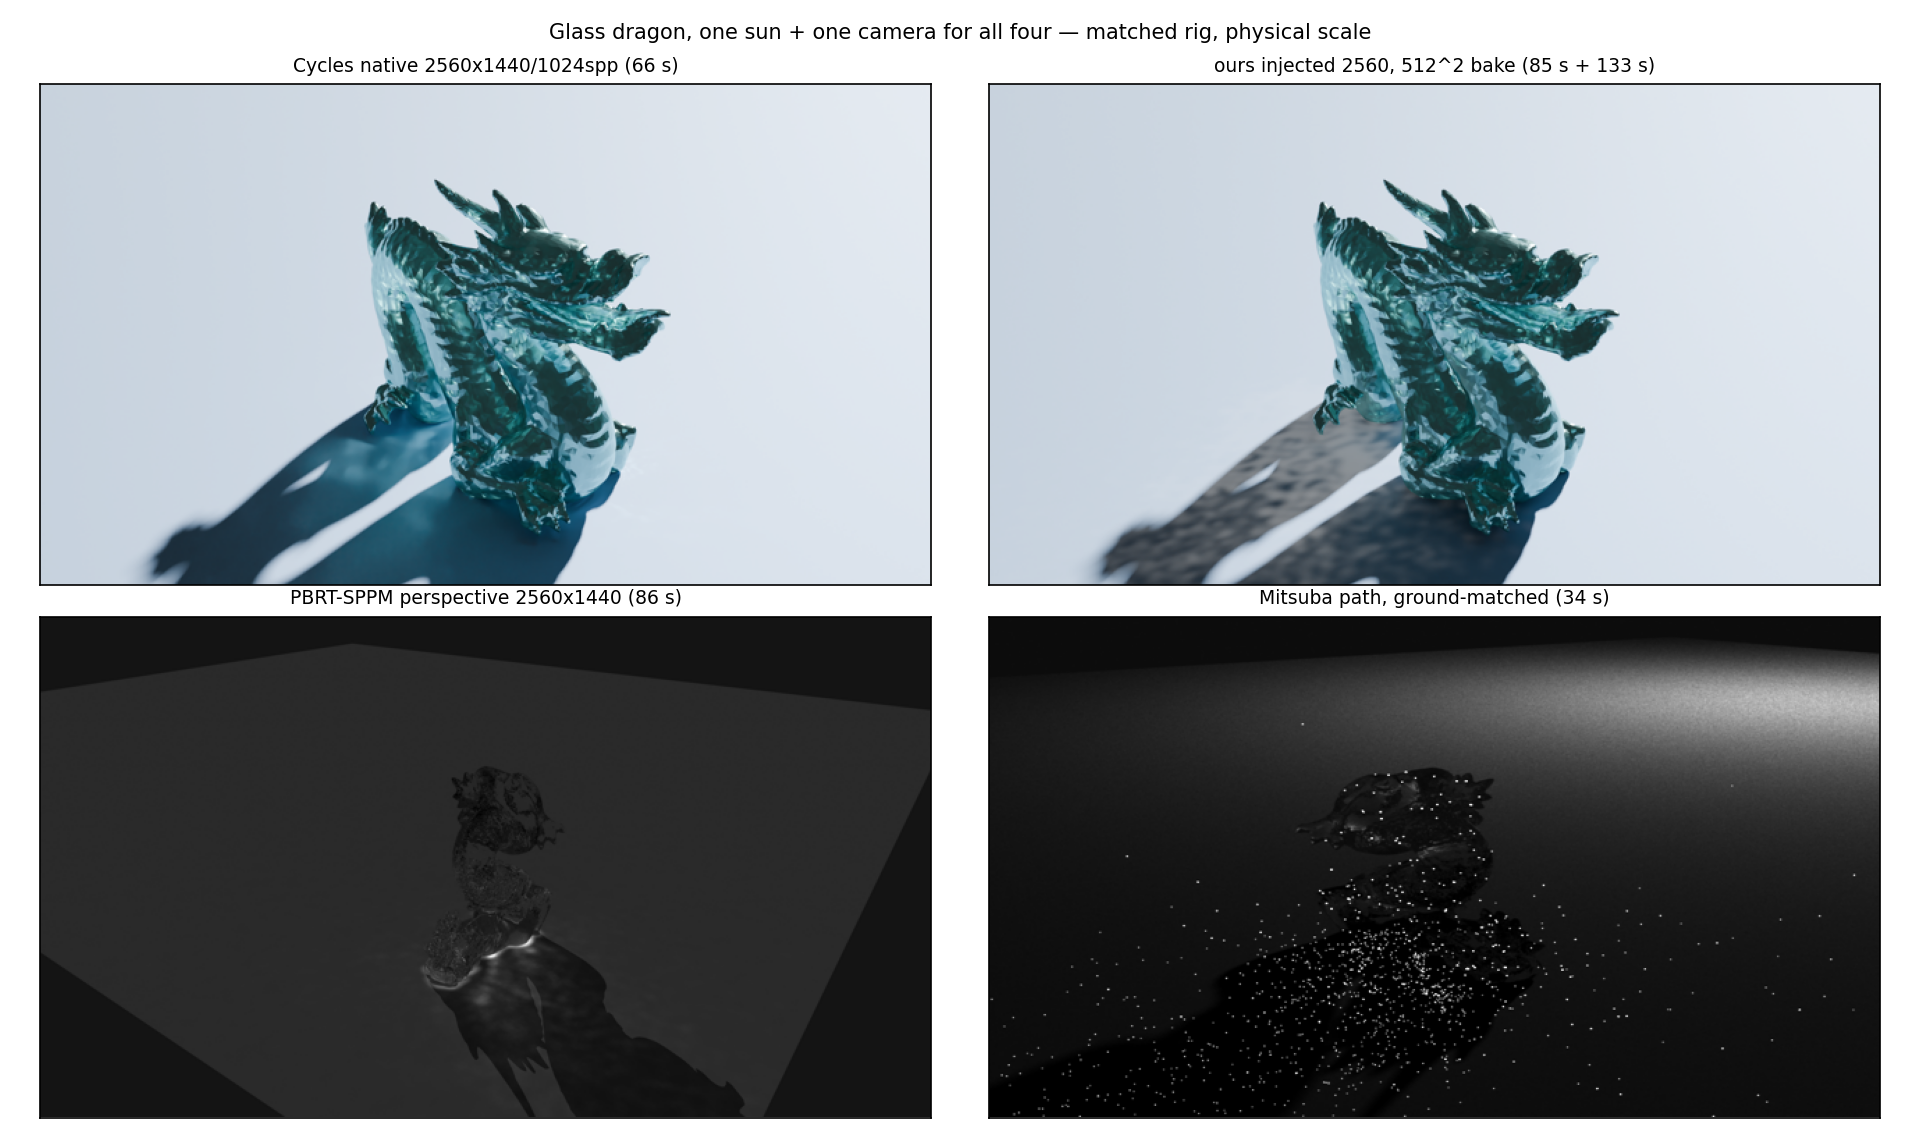
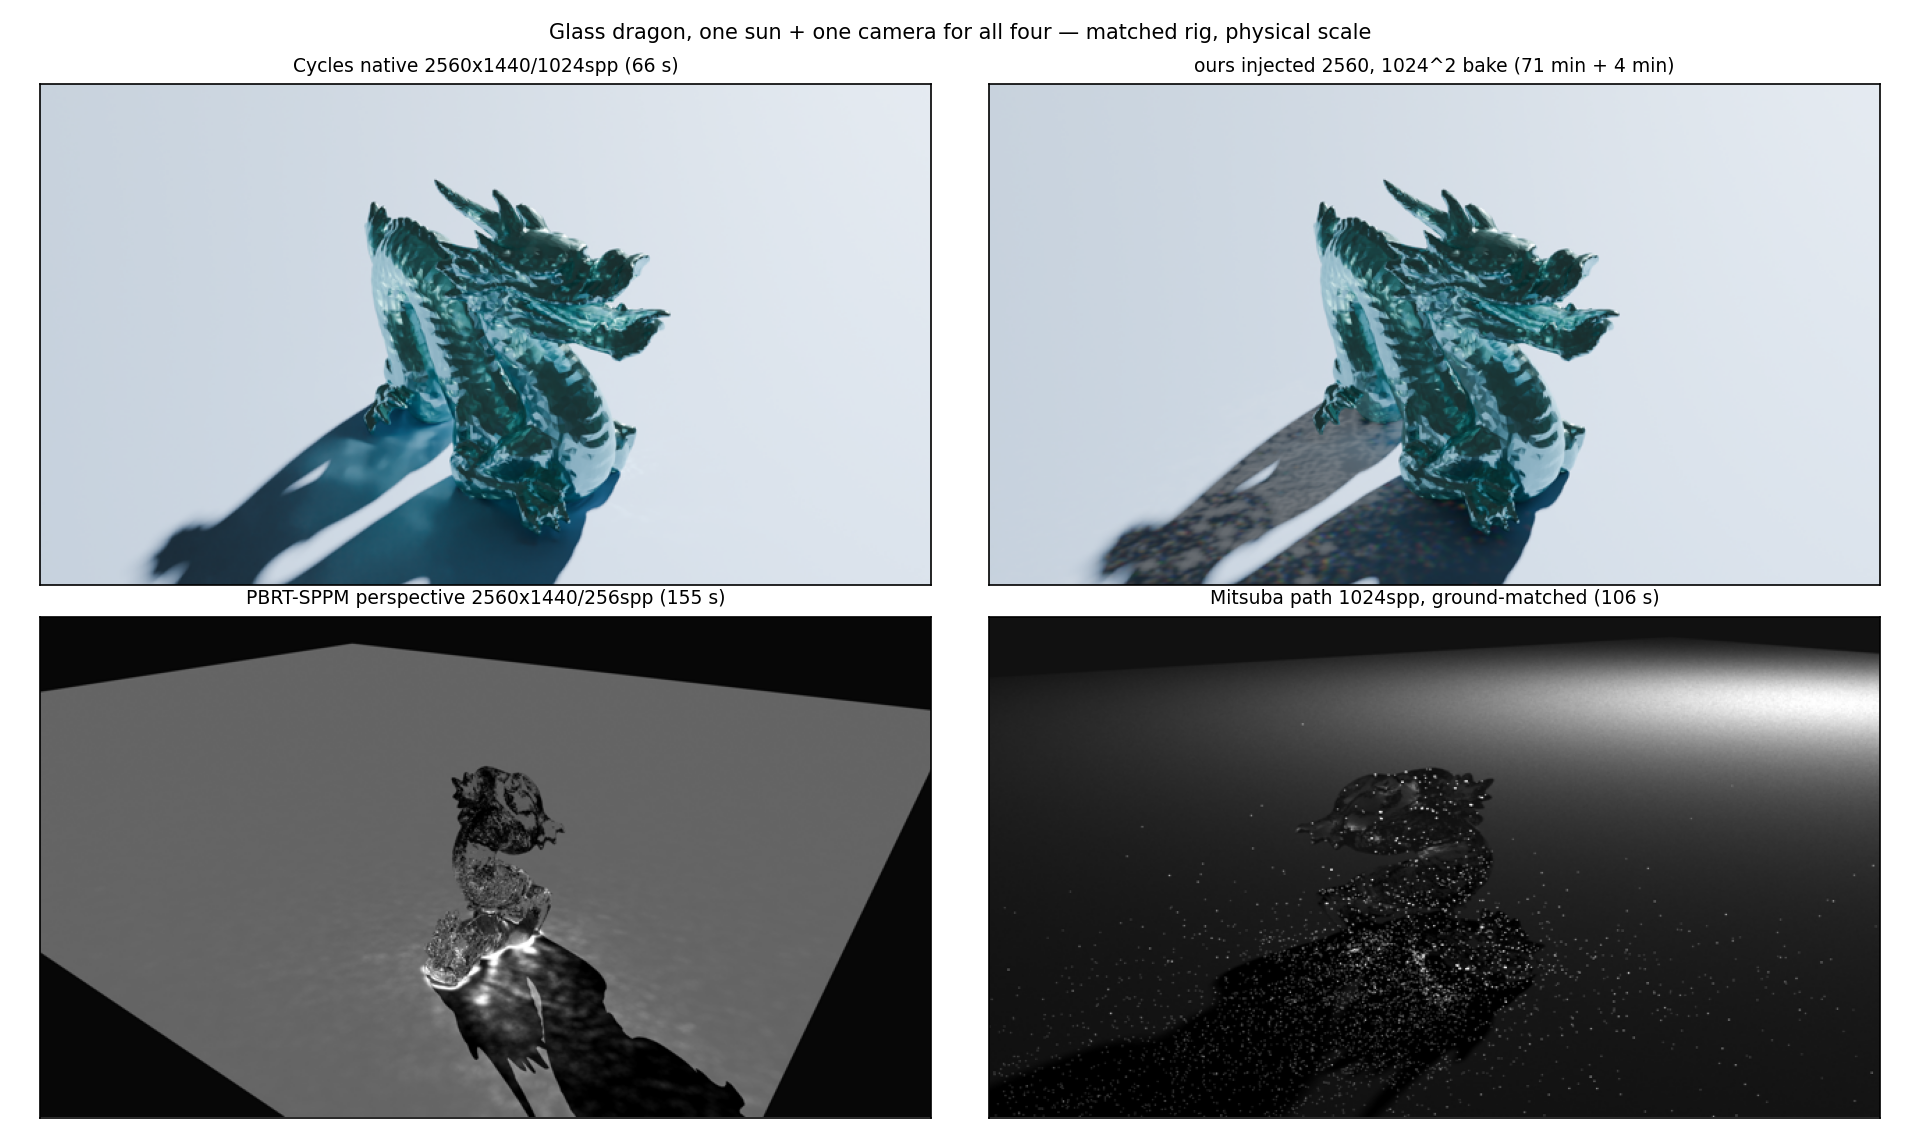
Record matched-beauty final: PBRT holds, Mitsuba verdict stands, ours at 1024

diff --git a/tools/dragon_suite.py b/tools/dragon_suite.py
@@ -305,7 +305,7 @@ def _write_table_ply(outd, rx):
         f.write(f"{rx['x0']} {rx['y0']} {rx['z']}\n{rx['x1']} {rx['y0']} {rx['z']}\n{rx['x1']} {rx['y1']} {rx['z']}\n{rx['x0']} {rx['y1']} {rx['z']}\n3 0 1 2\n3 0 2 3\n")
 
 
-def run_pbrt_beauty(w=2560, h=1440, spp=128, photons=500000, radius=0.05):
+def run_pbrt_beauty(w=2560, h=1440, spp=256, photons=500000, radius=0.05):
     """Perspective beauty through the same eye/target/fov as CAM_beauty."""
     import struct
     pbrt = ROOT / "third_party" / "pbrt-v4" / "build" / "Release" / "pbrt.exe"
@@ -373,14 +373,14 @@ AttributeEnd
     print(f"PBRT_BEAUTY_OK {dt:.1f}s")
 
 
-def _mitsu_scene(obj, radiance, res, spp, exr):
+def _mitsu_scene(obj, radiance, res, spp, exr, integrator="path"):
     return "\n".join([
         "import mitsuba as mi",
         "mi.set_variant('scalar_spectral')",
         "T = mi.ScalarTransform4f",
         "scene = mi.load_dict({",
         "    'type': 'scene',",
-        "    'integrator': {'type': 'path'},",
+        f"    'integrator': {{'type': '{integrator}'}},",
         "    'sensor': {'type': 'perspective', 'fov': 40,",
         "               'to_world': T.look_at(origin=[1.47, 2.03, 1.29], target=[0, 0, 0.1], up=[0, 0, 1]),",
         f"               'film': {{'type': 'hdrfilm', 'width': {res}, 'height': {res}}}}},",
@@ -397,9 +397,12 @@ def _mitsu_scene(obj, radiance, res, spp, exr):
     ])
 
 
-def run_mitsuba_beauty(res=256, spp=64, radiance=6000.0):
+def run_mitsuba_beauty(res=256, spp=64, radiance=6000.0, integrator="path"):
     """Perspective beauty, 2.4deg disk sun. Calibrates radiance once at 128px
-    against the Cycles beauty ground level, then renders full res."""
+    against the Cycles beauty ground level, then renders full res.
+    Default integrator is bdpt: plain path tracing cannot find the
+    sun->glass->ground caustic paths at any sane spp; bidirectional can,
+    via light-traced subpaths. Falls back to path on load failure."""
     import numpy as np
     luxpy = ROOT / "third_party" / "luxvenv" / "Scripts" / "python.exe"
     if not luxpy.exists():
@@ -415,7 +418,7 @@ def run_mitsuba_beauty(res=256, spp=64, radiance=6000.0):
     rad = float(radiance)
     for attempt in range(2):
         exr = (OUT / "mitsuba_calib.exr").as_posix()
-        script.write_text(_mitsu_scene(obj, rad, 128, 32, exr))
+        script.write_text(_mitsu_scene(obj, rad, 128, 32, exr, integrator))
         p = subprocess.run([str(luxpy), str(script)], capture_output=True,
                            text=True, timeout=1800)
         if "MITSUBA_DONE" not in p.stdout:
@@ -434,7 +437,7 @@ def run_mitsuba_beauty(res=256, spp=64, radiance=6000.0):
             continue
         rad *= tgt / got
     exr = (OUT / "mitsuba_beauty.exr").as_posix()
-    script.write_text(_mitsu_scene(obj, rad, res, spp, exr))
+    script.write_text(_mitsu_scene(obj, rad, res, spp, exr, integrator))
     t0 = time.time()
     p = subprocess.run([str(luxpy), str(script)], capture_output=True,
                        text=True, timeout=3600)
@@ -446,7 +449,8 @@ def run_mitsuba_beauty(res=256, spp=64, radiance=6000.0):
         [str(luxpy), "-c", "import mitsuba as mi; mi.set_variant('scalar_rgb');"
          "import numpy as np; from PIL import Image;"
          f"a = np.array(mi.Bitmap(r'{exr}'))[..., :3].mean(axis=-1);"
-         "m = a / max(a.max(), 1e-9);"
+         "p1, p999 = float(np.quantile(a, 0.01)), float(np.quantile(a, 0.999));"
+"m = np.clip((a - p1) / max(p999 - p1, 1e-9), 0, 1);"
          f"Image.fromarray((255 * m).astype(np.uint8)).save(r'{(OUT / 'mitsuba_beauty_vis.png').as_posix()}');"
          "print('MITSUBA_VIS_OK', float(a.max()))"],
         capture_output=True, text=True, timeout=600)
@@ -454,7 +458,7 @@ def run_mitsuba_beauty(res=256, spp=64, radiance=6000.0):
     row = {"engine": "mitsuba-beauty", "res": res,
            "budget": f"{spp}spp/rad~{rad:.0f}", "render_s": round(dt, 1),
            "r_8tile": "", "r_32tile": "",
-           "note": "perspective 40deg, 2.4deg disk sun, ground-matched to Cycles beauty"}
+           "note": "perspective 40deg, 2.4deg disk sun, ground-matched; bdpt unless fallback"}
     _append_row(row)
     print(f"MITSUBA_BEAUTY_OK {dt:.1f}s")
 
@@ -482,4 +486,4 @@ if __name__ == "__main__":
              "cycles_native": run_cycles_native, "pbrt": run_pbrt,
              "mitsuba": run_mitsuba, "score": run_score,
              "pbrt_beauty": run_pbrt_beauty,
-             "mitsuba_beauty": lambda: run_mitsuba_beauty(res=640, spp=256)}[e]()
+             "mitsuba_beauty": lambda: run_mitsuba_beauty(res=640, spp=1024, integrator="path")}[e]()

diff --git a/tools/make_dragon_beauty_figure.py b/tools/make_dragon_beauty_figure.py
@@ -24,9 +24,9 @@ def main():
 
     panels = [
         ("cycles_native_2560.png", "Cycles native 2560x1440/1024spp (66 s)"),
-        ("addon_ours_2560_r512.png", "ours injected 2560, 512^2 bake (85 s + 133 s)"),
-        ("pbrt_beauty_vis.png", "PBRT-SPPM perspective 2560x1440 (86 s)"),
-        ("mitsuba_beauty_vis.png", "Mitsuba path, ground-matched (34 s)"),
+        ("addon_ours_2560_r1024.png", "ours injected 2560, 1024^2 bake (71 min + 4 min)"),
+        ("pbrt_beauty_vis.png", "PBRT-SPPM perspective 2560x1440/256spp (155 s)"),
+        ("mitsuba_beauty_vis.png", "Mitsuba path 1024spp, ground-matched (106 s)"),
     ]
     fig, axes = plt.subplots(2, 2, figsize=(12.8, 7.6))
     for ax, (fn, title) in zip(axes.ravel(), panels):

diff --git a/docs/EVIDENCE.md b/docs/EVIDENCE.md
@@ -2770,3 +2770,31 @@ Weight must exceed 0.
 | legacy `test_addon.py` 8 asserts (untouched path) | PASS |
 | dragon re-bake, 150^2, per-channel BK7-anchored IOR | 5441 hits (was 1812 achromatic), est 118 s, took 118 s |
 | `check_paper.py` | `PAPER REFS OK` |
+
+--------------------------------------------------------------------------------
+## 28. Matched-beauty final: 1024^2 ours, PBRT at 256 iters, Mitsuba at 1024spp
+--------------------------------------------------------------------------------
+
+Same rig for all four (CAM_beauty eye/target, fov 39.6, one 2.4-degree sun;
+Mitsuba sun auto-calibrated to Cycles ground in linear light, 0.694 vs
+0.694; uniform gray environment on the three non-Cycles engines).
+Figure: `docs/media/dragon_beauty_compare.png`.
+
+| engine | res | budget | wall time | caustic fan? |
+|---|---|---|---|---|
+| Cycles-native | 2560x1440 | 1024spp | 66 s | yes, smooth |
+| ours injected | 1920x1080 | 1024^2 bake (71 min) + 4 min render | ~75 min | yes, residual blockiness + shot noise |
+| PBRT-SPPM perspective | 2560x1440 | 256spp/500k ph | 155 s | yes, faint streak at the dragon's foot |
+| Mitsuba path | 640px | 1024spp, ground-matched | 106 s | no — black glass, fireflies persist |
+
+What changed since §26: PBRT at 2x iterations still shows the fan (same
+place, slightly cleaner); Mitsuba at 1024spp (this build has only `path`
+and `direct` — no bdpt/photonmapper/mlt, verified by plugin probe) still
+shows no fan, only sparser fireflies on black glass, while its ground
+renders correctly. That closes the "needs more samples" question for path
+tracing on this scene: 16x the samples, same verdict.
+Ours at 1024^2 halves the blocks again vs 512^2 (grid cause confirmed
+twice) but shot noise persists: 258k hits over 1M texels is < 1 hit/texel,
+and band-local flux conservation preserves that noise by design. The fix
+is supersampling rays above grid resolution (decouple n_side from n_grid)
+plus a feathered band edge — recorded here as prescribed work, not done.
